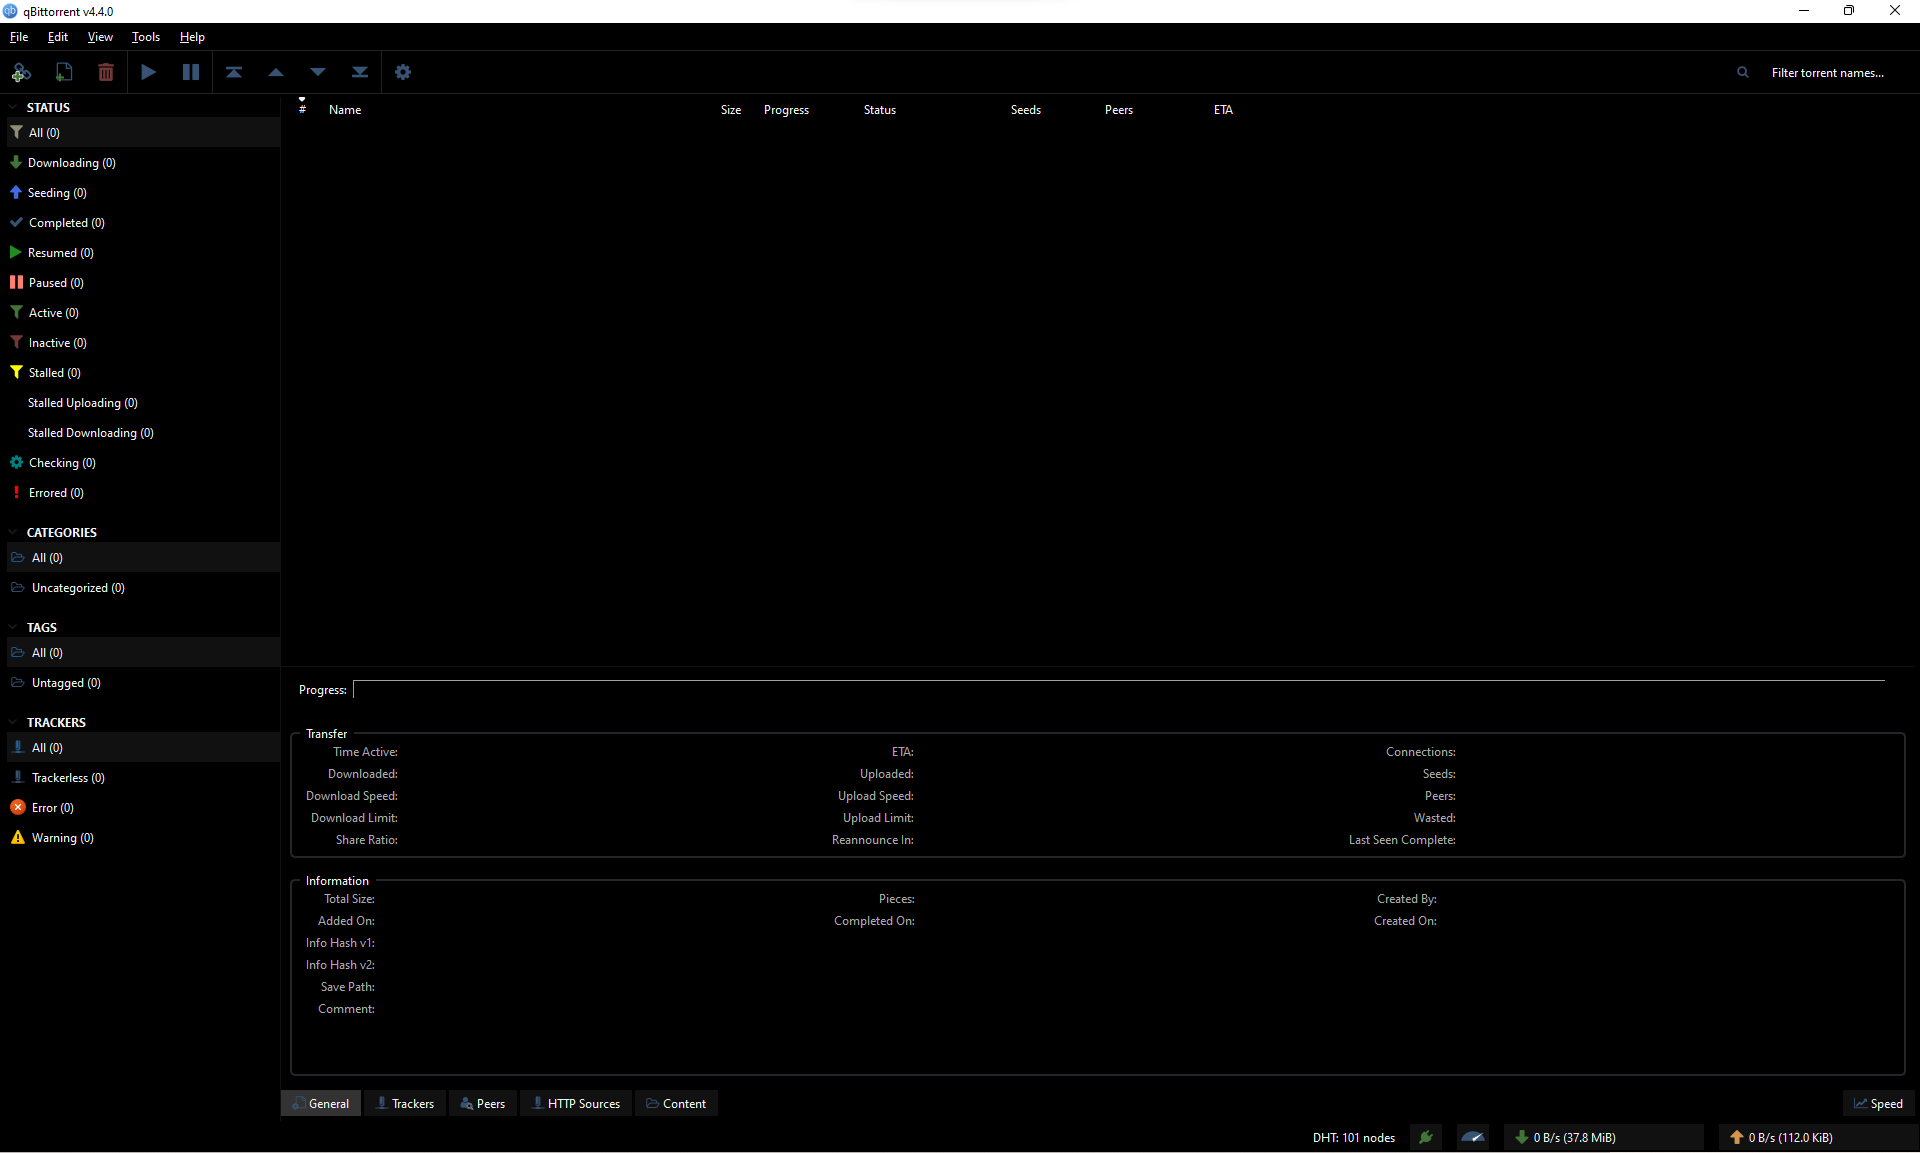
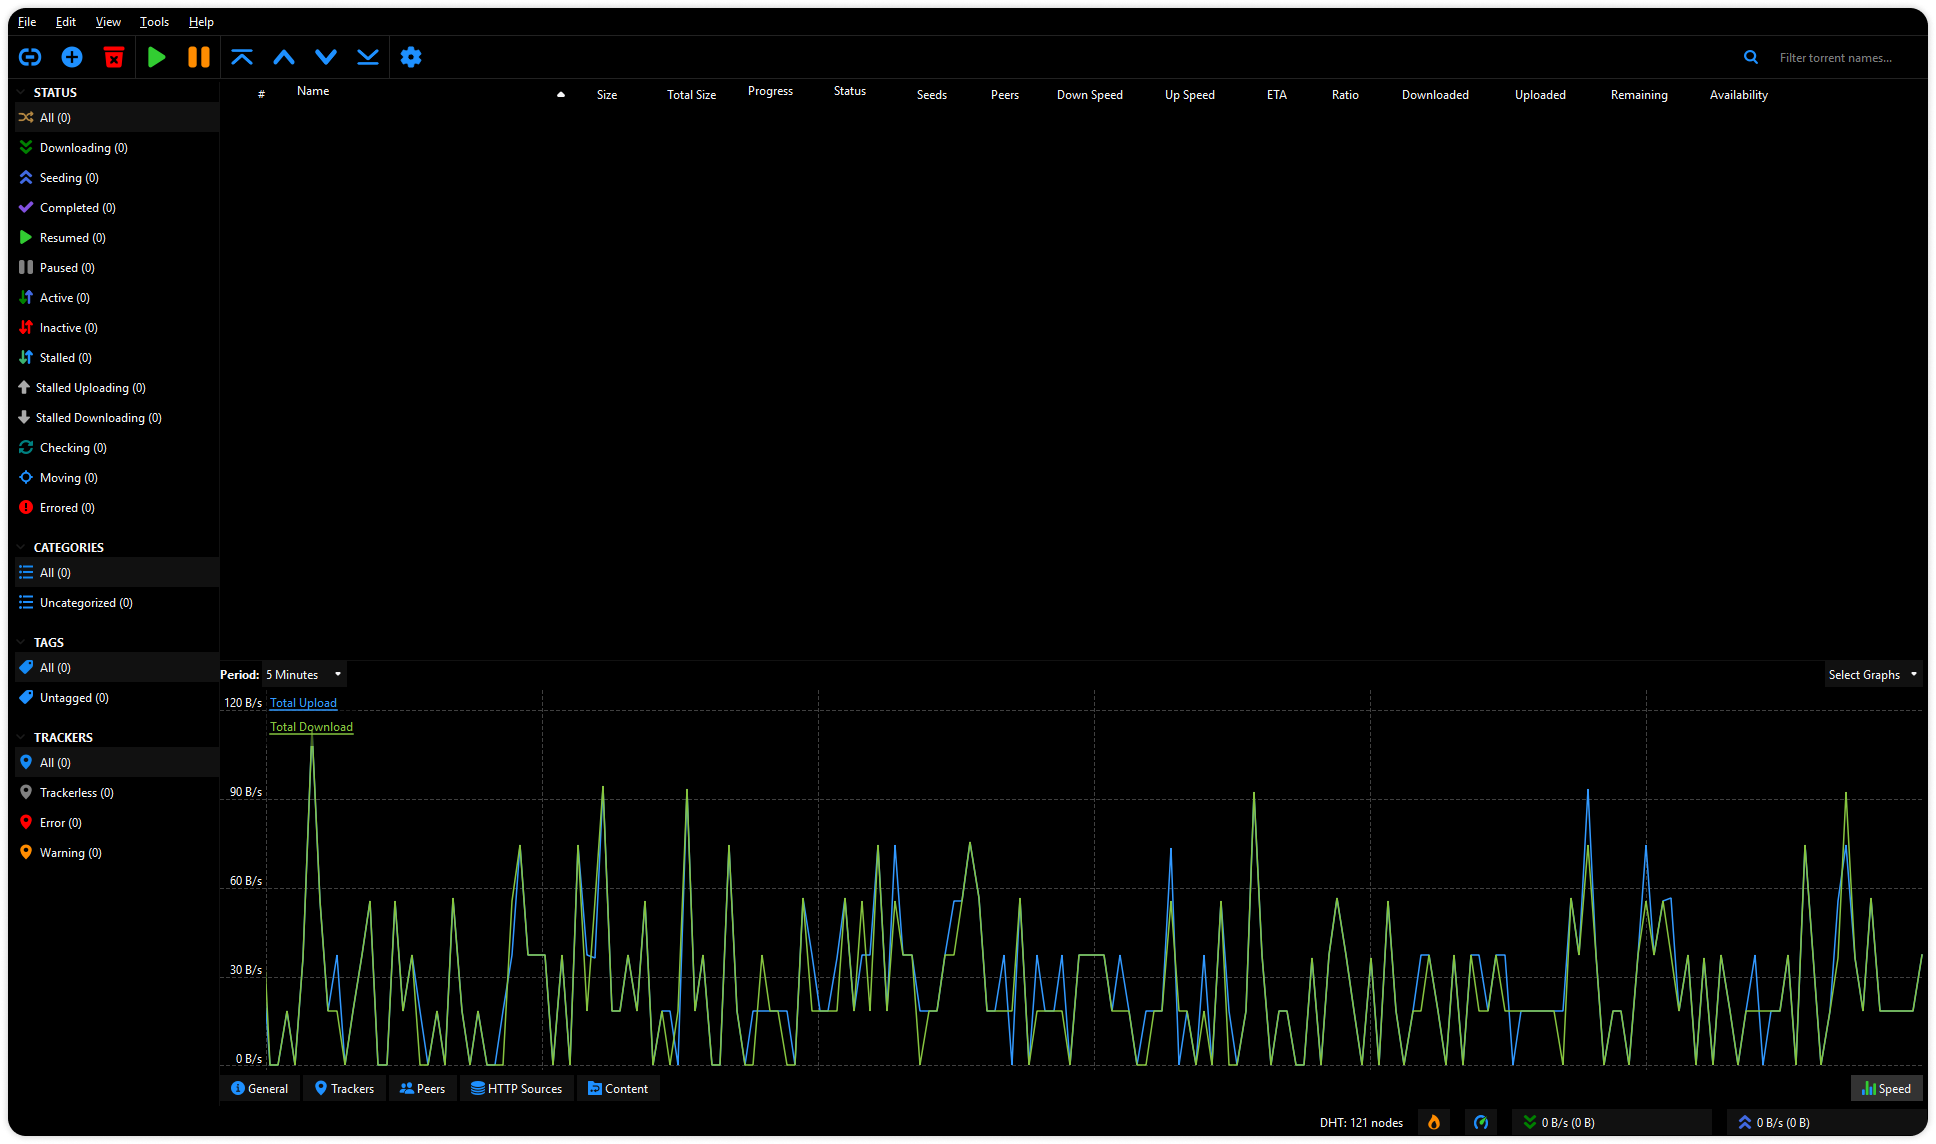
Update client screenshot and version

diff --git a/README.md b/README.md
@@ -10,7 +10,7 @@ A full dark theme for the qBittorrent client, just simple black and white, nothi
 
 <a href="./black.qbtheme" download>qBittorrent Black Theme (black.qbtheme)</a>
 
-_This theme was last updated for qBittorrent v4.4.0_
+_This theme was last updated for qBittorrent v4.5.4 (lt20 - qt6)_
 
 Open up `Options` _(`ALT`+`O`)_ and check `Use custom UI Theme` and select the `black.qbtheme` file.
 
